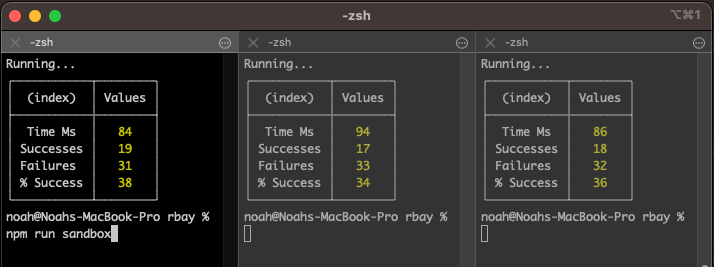
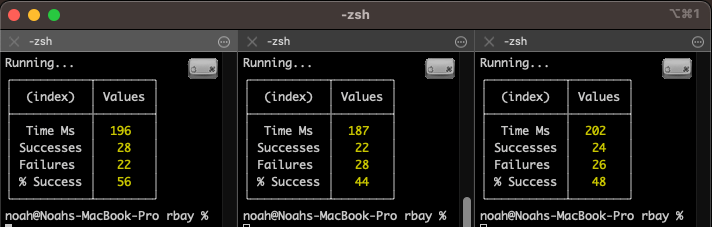
140. It Works

diff --git a/e-commerce-app/rbay/src/services/redis/lock.ts b/e-commerce-app/rbay/src/services/redis/lock.ts
@@ -3,7 +3,7 @@ import { randomBytes } from 'crypto';
 
 export const withLock = async (key: string, cb: () => any) => {
 	// Initialize a few variables to control retry behavior
-	const retryDelayMs = 100;
+	const retryDelayMs = 10;
 	let retries = 20;
 
 	// Generate a random value to store at the lock key

diff --git a/e-commerce-app/rbay/sandbox/index.ts b/e-commerce-app/rbay/sandbox/index.ts
@@ -48,7 +48,7 @@ const pause = async (p: number) => {
 
 const cookie = 'auth=9975918c%3AC9yBfEgOABd-oHEw3Ta4pOS3Z0M';
 const attempts = 50;
-const itemId = '7fe091';
+const itemId = 'c93524';
 const start = performance.now();
 
 const run = async () => {

diff --git a/README.md b/README.md
@@ -478,9 +478,15 @@ EVALSHA c301e0c5bc3538d2bad3fdbf2e281887e643ada4 0
 
 Concurrency test with sandbox
 
-1. Run 3 `rbay` apps in different ports 3000, 3001 and 3001
+1. Temporary comment out the validation in `bids.ts` to allow any prices
+   ```js
+   // if (item.price >= attrs.amount) {
+   //	 throw new Error('Bid too low');
+   // }
+   ```
+2. Run 3 `rbay` apps in different ports 3000, 3001 and 3001
    - `npm run dev -- --port 3001`
-2. Fill up the script in the `sandbox` folder.
+3. Fill up the script in the `sandbox` folder.
    - [135-concurrency.ts](./e-commerce-app/rbay/sandbox/135-concurrency.ts)
    - `auth` cookie
      - Create a user in the app
@@ -488,9 +494,10 @@ Concurrency test with sandbox
      - paste it to the code
    - `itemId`
      - Create an item in the app and copy/paste the `itemId`
-3. open 3 terminal tabs, (each sandbox will use different `itemId`s)
-   - Create an item in the app and copy/paste the `itemId`
-   - run `npm run sandbox`
+4. open 3 terminal tabs, <!-- (each sandbox will use different `itemId`s) -->
+   <!-- - Create an item in the app and copy/paste the `itemId` -->
+   - Cmd + Shift + i in Term2, then I can run scripts in multi tabs at the same time
+   - `npm run sandbox`
 
 ![concurrency performance test](./images/135-concurrency.png)
 
@@ -500,5 +507,15 @@ Concurrency test with sandbox
   - [Redlock - glossary](https://redis.com/glossary/redlock/)
   - [Redlock - implementations ](https://redis.io/docs/manual/patterns/distributed-locks/)
 - On any serioous project, use Relock instead of what we're building here
+
+### 140. It Works!
+
+![concurrency solved?](./images/140-lock.png)
+
+> But it is 10 times slower (2000ms) because it retries during locks.
+
+I've changed `retryDelayMs` from 100ms to 10ms in [lock.ts](./e-commerce-app/rbay/src/services/redis/lock.ts). It's a lot faster!
+
+![concurrency solved!!](./images/140-lock-faster.png)
 
 </details>
